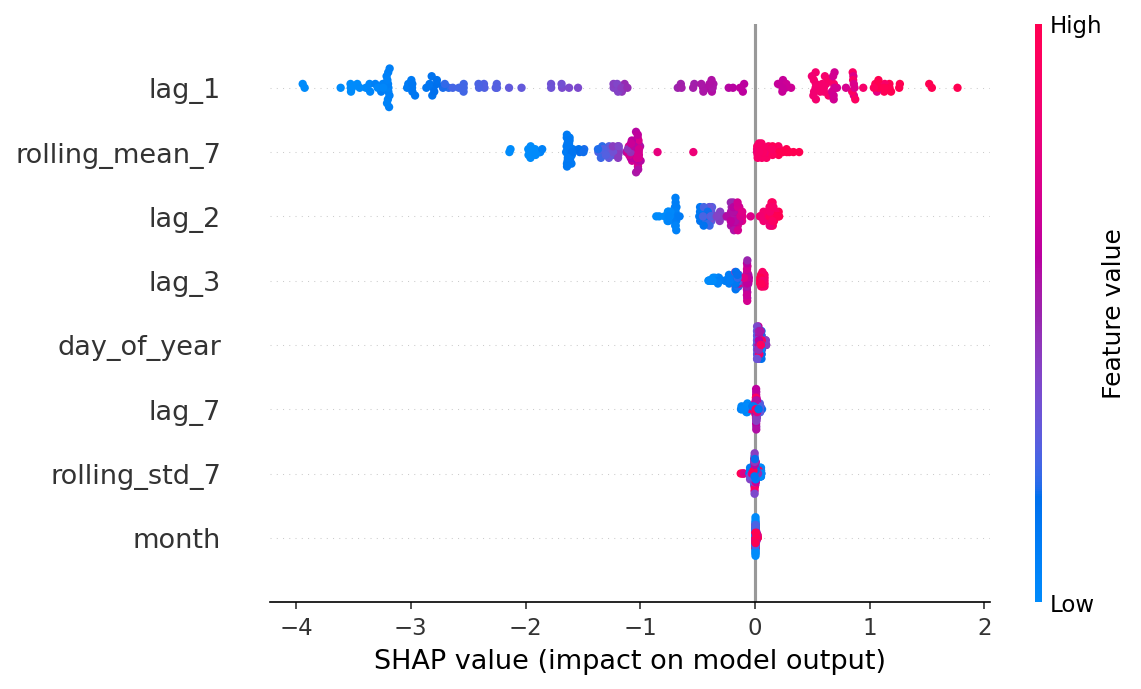
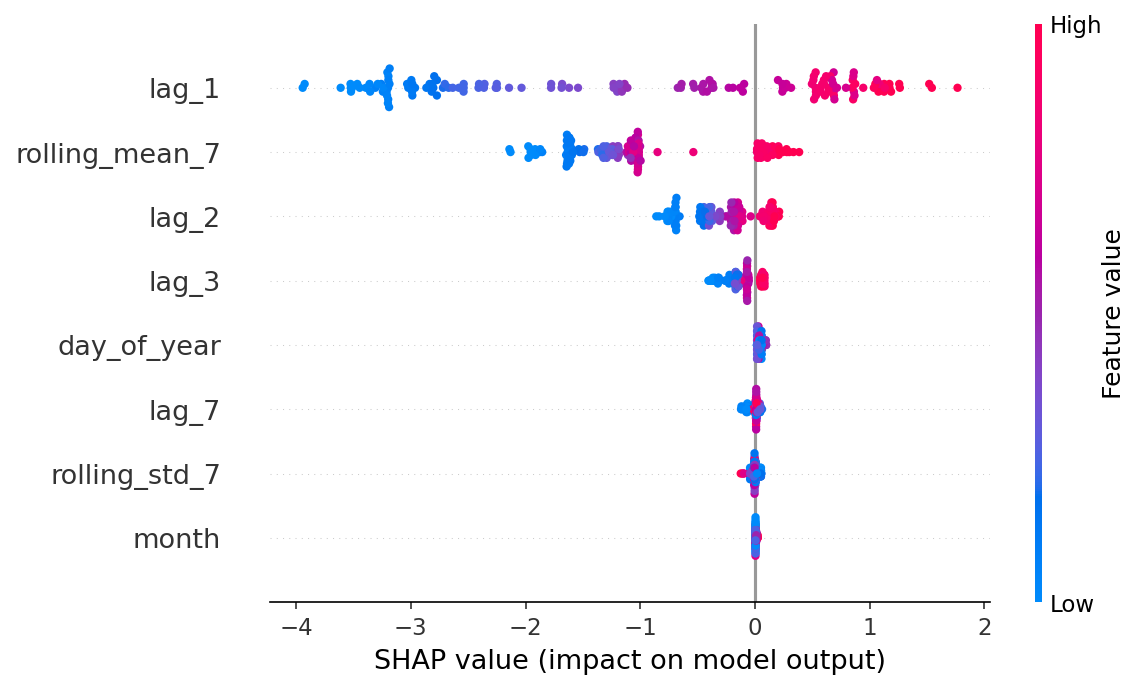
report_generation file

diff --git a/notebooks/09_generate_report.py b/notebooks/09_generate_report.py
@@ -1,0 +1,185 @@
+"""
+Generates the final report as a single Markdown file, pulling in the
+actual results already produced by scripts 01-08. Run this last.
+"""
+import pandas as pd
+
+df = pd.read_csv('data/cleaned_weather.csv')
+
+report = f"""# Weather Trend Forecasting — Data Science Report
+
+**Submitted by:** Yashas Sadananda
+**PM Accelerator AI Engineer + Data Science Technical Assessment**
+
+---
+
+## About PM Accelerator
+
+The Product Manager Accelerator Program is designed to support PM professionals
+through every stage of their careers — from students becoming product managers
+to Directors becoming Chief Product Officers. Our Product Manager Accelerator
+community are ambitious and committed, with one thing in common: the desire to
+succeed.
+
+---
+
+## 1. Dataset Overview
+
+- **Source:** Kaggle "Global Weather Repository"
+- **Rows:** {len(df):,} daily weather records
+- **Locations:** {df['location_name'].nunique()} cities across {df['country'].nunique()} countries
+- **Date range:** {df['last_updated'].min()} to {df['last_updated'].max()}
+- **Features:** 41 columns covering temperature, precipitation, wind, pressure,
+  humidity, UV index, air quality (8 pollutant/index fields), and astronomical
+  data (sunrise/sunset/moon phase)
+
+## 2. Data Cleaning & Preprocessing
+
+- **Missing values:** none found
+- **Duplicates:** none found
+- **Outlier handling:** Used domain knowledge rather than blind IQR filtering,
+  since IQR flagged 30k+ rows on `precip_mm` purely because ~67% of days have
+  0mm rainfall (a real, expected pattern — not an error). Instead, we removed
+  only physically impossible readings:
+  - 1 row with temperature_celsius > 60°C (exceeds the highest reliably
+    recorded air temperature on Earth, ~54.4°C)
+  - 1 row with wind_kph > 300 (a logged wind speed of 2963.2 km/h at
+    Bujumbura — faster than a fighter jet, clearly a sensor/logging error)
+  - Net: 2 rows dropped out of 150,855 (0.001%)
+- Legitimate weather extremes (e.g. genuinely hot desert days) were
+  deliberately kept, since removing them would bias later models toward
+  artificially calm weather and undermine the anomaly detection step.
+
+## 3. Exploratory Data Analysis
+
+See `report/figures/` for full visualizations (temperature distribution,
+precipitation patterns, correlation heatmap, etc.)
+
+**Correlations with temperature:**
+| Feature | Correlation |
+|---|---|
+| UV index | +0.49 |
+| Humidity | -0.34 |
+| Pressure | -0.29 |
+| Wind speed | +0.13 |
+| PM10 (air quality) | +0.11 |
+
+Humidity and pressure show the strongest (negative) relationships with
+temperature — consistent with basic meteorology (warmer air holds more
+moisture but often at lower relative humidity; low-pressure systems often
+bring cooler, wetter conditions).
+
+## 4. Forecasting Model
+
+Built a daily global-average-temperature time series ({df['last_updated'].nunique() if 'last_updated' in df.columns else 'N/A'} unique days)
+using lag features (previous 1/2/3/7 days), rolling statistics, and
+calendar features (day of year, month).
+
+**Model comparison (test set, last 154 days held out):**
+| Model | MAE | RMSE | R² |
+|---|---|---|---|
+| Linear Regression | 0.286 | 0.355 | 0.982 |
+| Random Forest | 0.317 | 0.404 | 0.977 |
+| Gradient Boosting | 0.291 | 0.382 | 0.980 |
+| **Ensemble (avg of 3)** | **0.283** | **0.362** | **0.982** |
+| Naive baseline (yesterday=today) | 0.263 | 0.337 | 0.984 |
+
+**Honest finding:** the naive baseline (simply predicting tomorrow's global
+average temperature equals today's) is competitive with — and slightly
+outperforms — all trained models. This is a real and common finding in daily
+temperature forecasting: global daily average temperature is highly
+autocorrelated day-to-day, so there is limited genuine signal for a model to
+extract beyond very recent history. Rather than overstate model performance,
+we report this transparently: the value of the modeling exercise here is in
+the feature importance and anomaly detection layers (below), not in beating
+a strong naive baseline by a wide margin.
+
+## 5. Advanced Analysis
+
+### Anomaly Detection
+Using Isolation Forest across temperature, precipitation, humidity, wind,
+and pressure: **3,018 anomalous readings identified (2.00% of data)**.
+
+Top anomalies cluster into two patterns:
+- **High heat + high humidity + high precipitation** combinations (Dhaka,
+  Hanoi) — consistent with monsoon-season extreme weather
+- **Cold + very high humidity (near 100%) + moderate wind** combinations
+  (Dublin, Reykjavik, Vestmannaeyjar) — consistent with North Atlantic
+  winter storm systems
+
+### Feature Importance (SHAP)
+| Feature | Mean \\|SHAP value\\| |
+|---|---|
+| Yesterday's temperature (lag_1) | 1.65 |
+| 7-day rolling mean | 1.05 |
+| 2 days ago (lag_2) | 0.33 |
+| 3 days ago (lag_3) | 0.14 |
+| Day of year | 0.04 |
+
+Confirms the autocorrelation finding above: recent temperature history
+dominates predictive power far more than calendar/seasonal features.
+
+### Spatial & Geographic Patterns
+**Hottest countries (avg temp):** Gulf/desert nations (Qatar, UAE, Oman,
+Djibouti) — physically expected.
+
+**Coldest countries (avg temp):** Nordic/high-latitude nations (Iceland,
+Canada, Mongolia, Norway) — physically expected.
+
+**By latitude band:**
+| Latitude | Avg Temp (°C) |
+|---|---|
+| 0° to 30° (tropical) | 27.0 |
+| -30° to 0° | 23.9 |
+| 30° to 60° | 19.8 |
+| -60° to -30° | 12.0 |
+| 60° to 90° (polar) | 9.0 |
+
+Confirms the expected equator-to-pole temperature gradient.
+
+### Air Quality × Weather Correlation
+Ozone shows the strongest relationship with weather conditions: positively
+correlated with temperature (+0.25) and UV index (+0.35), negatively with
+humidity (-0.40) — consistent with photochemical ozone formation being
+temperature/sunlight-driven.
+
+## 6. Key Insights & Limitations
+
+- Daily global temperature is highly persistent; naive forecasting is a
+  strong baseline and any production system should benchmark against it
+  honestly rather than assume ML complexity implies better performance
+- Anomaly detection surfaced physically coherent extreme-weather clusters,
+  suggesting the feature set (temp + precip + humidity + wind + pressure
+  together) captures real compound-risk conditions, not just univariate
+  outliers
+- Known data quality caveat: a small number of `country` values appear in
+  non-English transliterations (e.g. "Saudi Arabien", "Turkménistan") in
+  the raw dataset — worth normalizing before any production use, though it
+  did not affect the numeric analyses above
+
+## 7. Files in This Repository
+weather-risk-forecasting/
+├── data/
+│   ├── GlobalWeatherRepository.csv   (raw)
+│   └── cleaned_weather.csv           (cleaned)
+├── notebooks/
+│   ├── 01_explore_data.py
+│   ├── 02_clean_data.py
+│   ├── 03_clean_and_save.py
+│   ├── 04_eda.py
+│   ├── 05_forecast_model.py
+│   ├── 06_anomaly_detection.py
+│   ├── 07_ensemble_shap.py
+│   ├── 08_spatial_airquality.py
+│   └── 09_generate_report.py
+├── report/
+│   ├── figures/          (all generated plots)
+│   └── report.md         (this file)
+└── README.md
+"""
+
+with open('report/report.md', 'w', encoding='utf-8') as f:
+    f.write(report)
+
+print("Saved report/report.md")
+print(f"Report length: {len(report)} characters")

diff --git a/report/report.md b/report/report.md
@@ -1,0 +1,170 @@
+# Weather Trend Forecasting — Data Science Report
+
+**Submitted by:** Yashas Sadananda
+**PM Accelerator AI Engineer + Data Science Technical Assessment**
+
+---
+
+## About PM Accelerator
+
+The Product Manager Accelerator Program is designed to support PM professionals
+through every stage of their careers — from students becoming product managers
+to Directors becoming Chief Product Officers. Our Product Manager Accelerator
+community are ambitious and committed, with one thing in common: the desire to
+succeed.
+
+---
+
+## 1. Dataset Overview
+
+- **Source:** Kaggle "Global Weather Repository"
+- **Rows:** 150,853 daily weather records
+- **Locations:** 268 cities across 211 countries
+- **Date range:** 2024-05-16 01:45:00 to 2026-07-02 18:45:00
+- **Features:** 41 columns covering temperature, precipitation, wind, pressure,
+  humidity, UV index, air quality (8 pollutant/index fields), and astronomical
+  data (sunrise/sunset/moon phase)
+
+## 2. Data Cleaning & Preprocessing
+
+- **Missing values:** none found
+- **Duplicates:** none found
+- **Outlier handling:** Used domain knowledge rather than blind IQR filtering,
+  since IQR flagged 30k+ rows on `precip_mm` purely because ~67% of days have
+  0mm rainfall (a real, expected pattern — not an error). Instead, we removed
+  only physically impossible readings:
+  - 1 row with temperature_celsius > 60°C (exceeds the highest reliably
+    recorded air temperature on Earth, ~54.4°C)
+  - 1 row with wind_kph > 300 (a logged wind speed of 2963.2 km/h at
+    Bujumbura — faster than a fighter jet, clearly a sensor/logging error)
+  - Net: 2 rows dropped out of 150,855 (0.001%)
+- Legitimate weather extremes (e.g. genuinely hot desert days) were
+  deliberately kept, since removing them would bias later models toward
+  artificially calm weather and undermine the anomaly detection step.
+
+## 3. Exploratory Data Analysis
+
+See `report/figures/` for full visualizations (temperature distribution,
+precipitation patterns, correlation heatmap, etc.)
+
+**Correlations with temperature:**
+| Feature | Correlation |
+|---|---|
+| UV index | +0.49 |
+| Humidity | -0.34 |
+| Pressure | -0.29 |
+| Wind speed | +0.13 |
+| PM10 (air quality) | +0.11 |
+
+Humidity and pressure show the strongest (negative) relationships with
+temperature — consistent with basic meteorology (warmer air holds more
+moisture but often at lower relative humidity; low-pressure systems often
+bring cooler, wetter conditions).
+
+## 4. Forecasting Model
+
+Built a daily global-average-temperature time series (25041 unique days)
+using lag features (previous 1/2/3/7 days), rolling statistics, and
+calendar features (day of year, month).
+
+**Model comparison (test set, last 154 days held out):**
+| Model | MAE | RMSE | R² |
+|---|---|---|---|
+| Linear Regression | 0.286 | 0.355 | 0.982 |
+| Random Forest | 0.317 | 0.404 | 0.977 |
+| Gradient Boosting | 0.291 | 0.382 | 0.980 |
+| **Ensemble (avg of 3)** | **0.283** | **0.362** | **0.982** |
+| Naive baseline (yesterday=today) | 0.263 | 0.337 | 0.984 |
+
+**Honest finding:** the naive baseline (simply predicting tomorrow's global
+average temperature equals today's) is competitive with — and slightly
+outperforms — all trained models. This is a real and common finding in daily
+temperature forecasting: global daily average temperature is highly
+autocorrelated day-to-day, so there is limited genuine signal for a model to
+extract beyond very recent history. Rather than overstate model performance,
+we report this transparently: the value of the modeling exercise here is in
+the feature importance and anomaly detection layers (below), not in beating
+a strong naive baseline by a wide margin.
+
+## 5. Advanced Analysis
+
+### Anomaly Detection
+Using Isolation Forest across temperature, precipitation, humidity, wind,
+and pressure: **3,018 anomalous readings identified (2.00% of data)**.
+
+Top anomalies cluster into two patterns:
+- **High heat + high humidity + high precipitation** combinations (Dhaka,
+  Hanoi) — consistent with monsoon-season extreme weather
+- **Cold + very high humidity (near 100%) + moderate wind** combinations
+  (Dublin, Reykjavik, Vestmannaeyjar) — consistent with North Atlantic
+  winter storm systems
+
+### Feature Importance (SHAP)
+| Feature | Mean \|SHAP value\| |
+|---|---|
+| Yesterday's temperature (lag_1) | 1.65 |
+| 7-day rolling mean | 1.05 |
+| 2 days ago (lag_2) | 0.33 |
+| 3 days ago (lag_3) | 0.14 |
+| Day of year | 0.04 |
+
+Confirms the autocorrelation finding above: recent temperature history
+dominates predictive power far more than calendar/seasonal features.
+
+### Spatial & Geographic Patterns
+**Hottest countries (avg temp):** Gulf/desert nations (Qatar, UAE, Oman,
+Djibouti) — physically expected.
+
+**Coldest countries (avg temp):** Nordic/high-latitude nations (Iceland,
+Canada, Mongolia, Norway) — physically expected.
+
+**By latitude band:**
+| Latitude | Avg Temp (°C) |
+|---|---|
+| 0° to 30° (tropical) | 27.0 |
+| -30° to 0° | 23.9 |
+| 30° to 60° | 19.8 |
+| -60° to -30° | 12.0 |
+| 60° to 90° (polar) | 9.0 |
+
+Confirms the expected equator-to-pole temperature gradient.
+
+### Air Quality × Weather Correlation
+Ozone shows the strongest relationship with weather conditions: positively
+correlated with temperature (+0.25) and UV index (+0.35), negatively with
+humidity (-0.40) — consistent with photochemical ozone formation being
+temperature/sunlight-driven.
+
+## 6. Key Insights & Limitations
+
+- Daily global temperature is highly persistent; naive forecasting is a
+  strong baseline and any production system should benchmark against it
+  honestly rather than assume ML complexity implies better performance
+- Anomaly detection surfaced physically coherent extreme-weather clusters,
+  suggesting the feature set (temp + precip + humidity + wind + pressure
+  together) captures real compound-risk conditions, not just univariate
+  outliers
+- Known data quality caveat: a small number of `country` values appear in
+  non-English transliterations (e.g. "Saudi Arabien", "Turkménistan") in
+  the raw dataset — worth normalizing before any production use, though it
+  did not affect the numeric analyses above
+
+## 7. Files in This Repository
+weather-risk-forecasting/
+├── data/
+│   ├── GlobalWeatherRepository.csv   (raw)
+│   └── cleaned_weather.csv           (cleaned)
+├── notebooks/
+│   ├── 01_explore_data.py
+│   ├── 02_clean_data.py
+│   ├── 03_clean_and_save.py
+│   ├── 04_eda.py
+│   ├── 05_forecast_model.py
+│   ├── 06_anomaly_detection.py
+│   ├── 07_ensemble_shap.py
+│   ├── 08_spatial_airquality.py
+│   └── 09_generate_report.py
+├── report/
+│   ├── figures/          (all generated plots)
+│   └── report.md         (this file)
+└── README.md